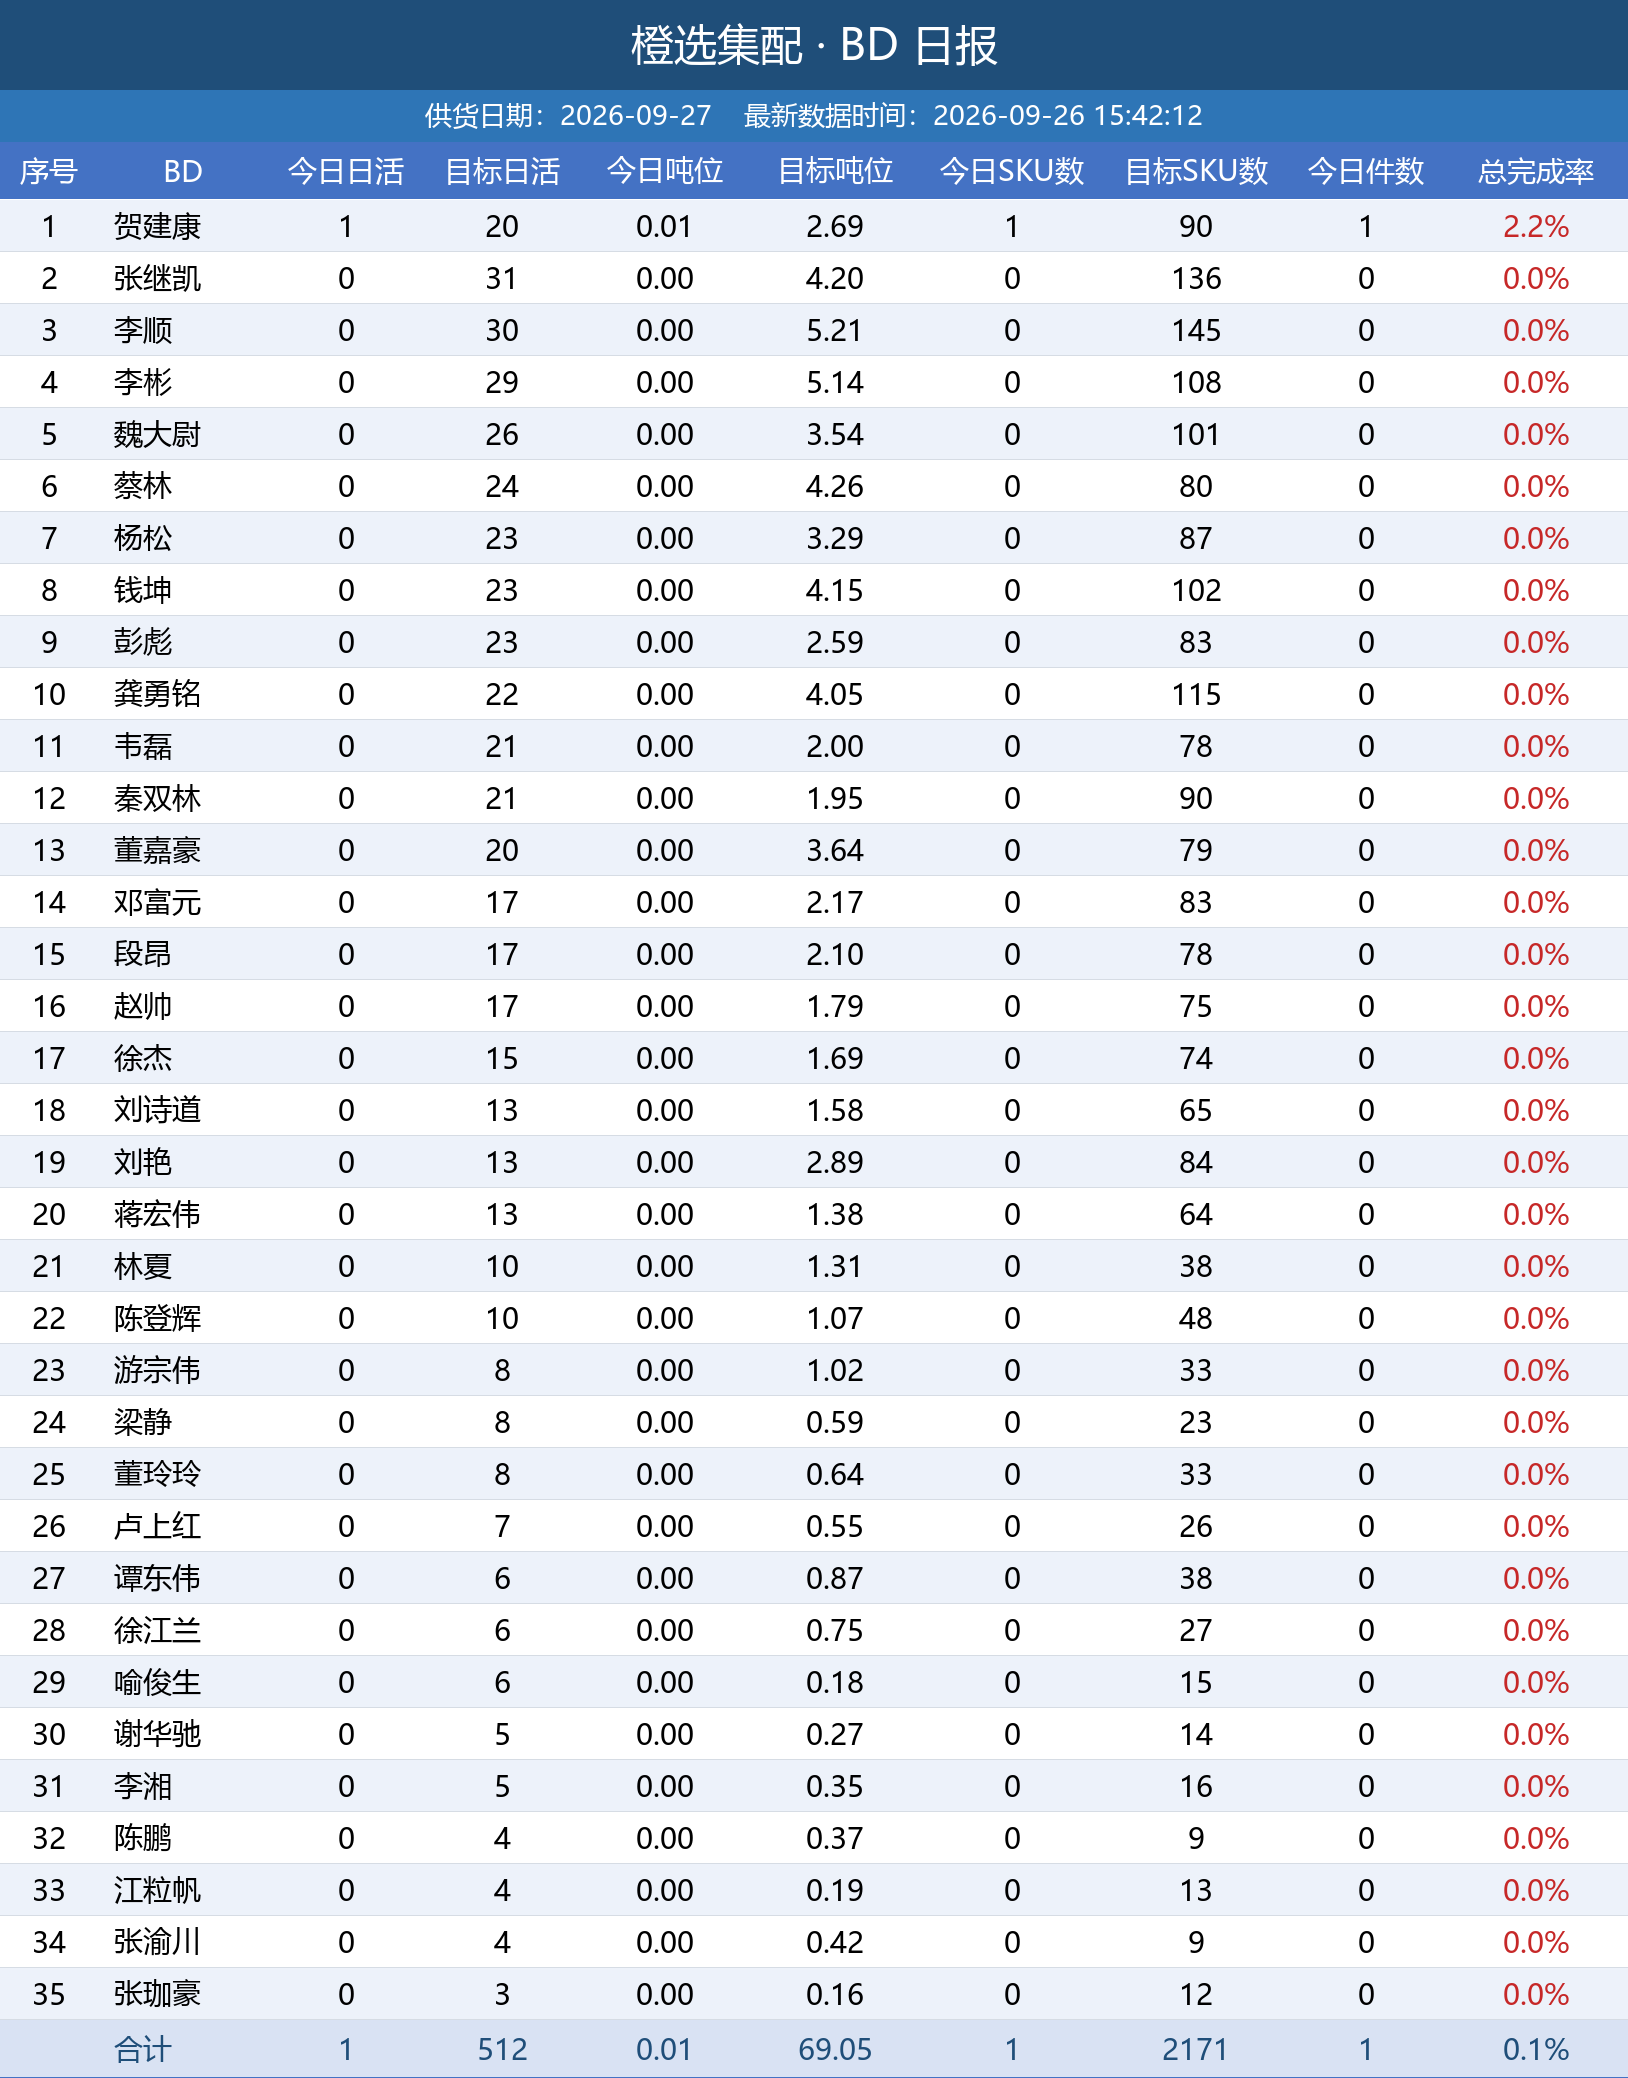
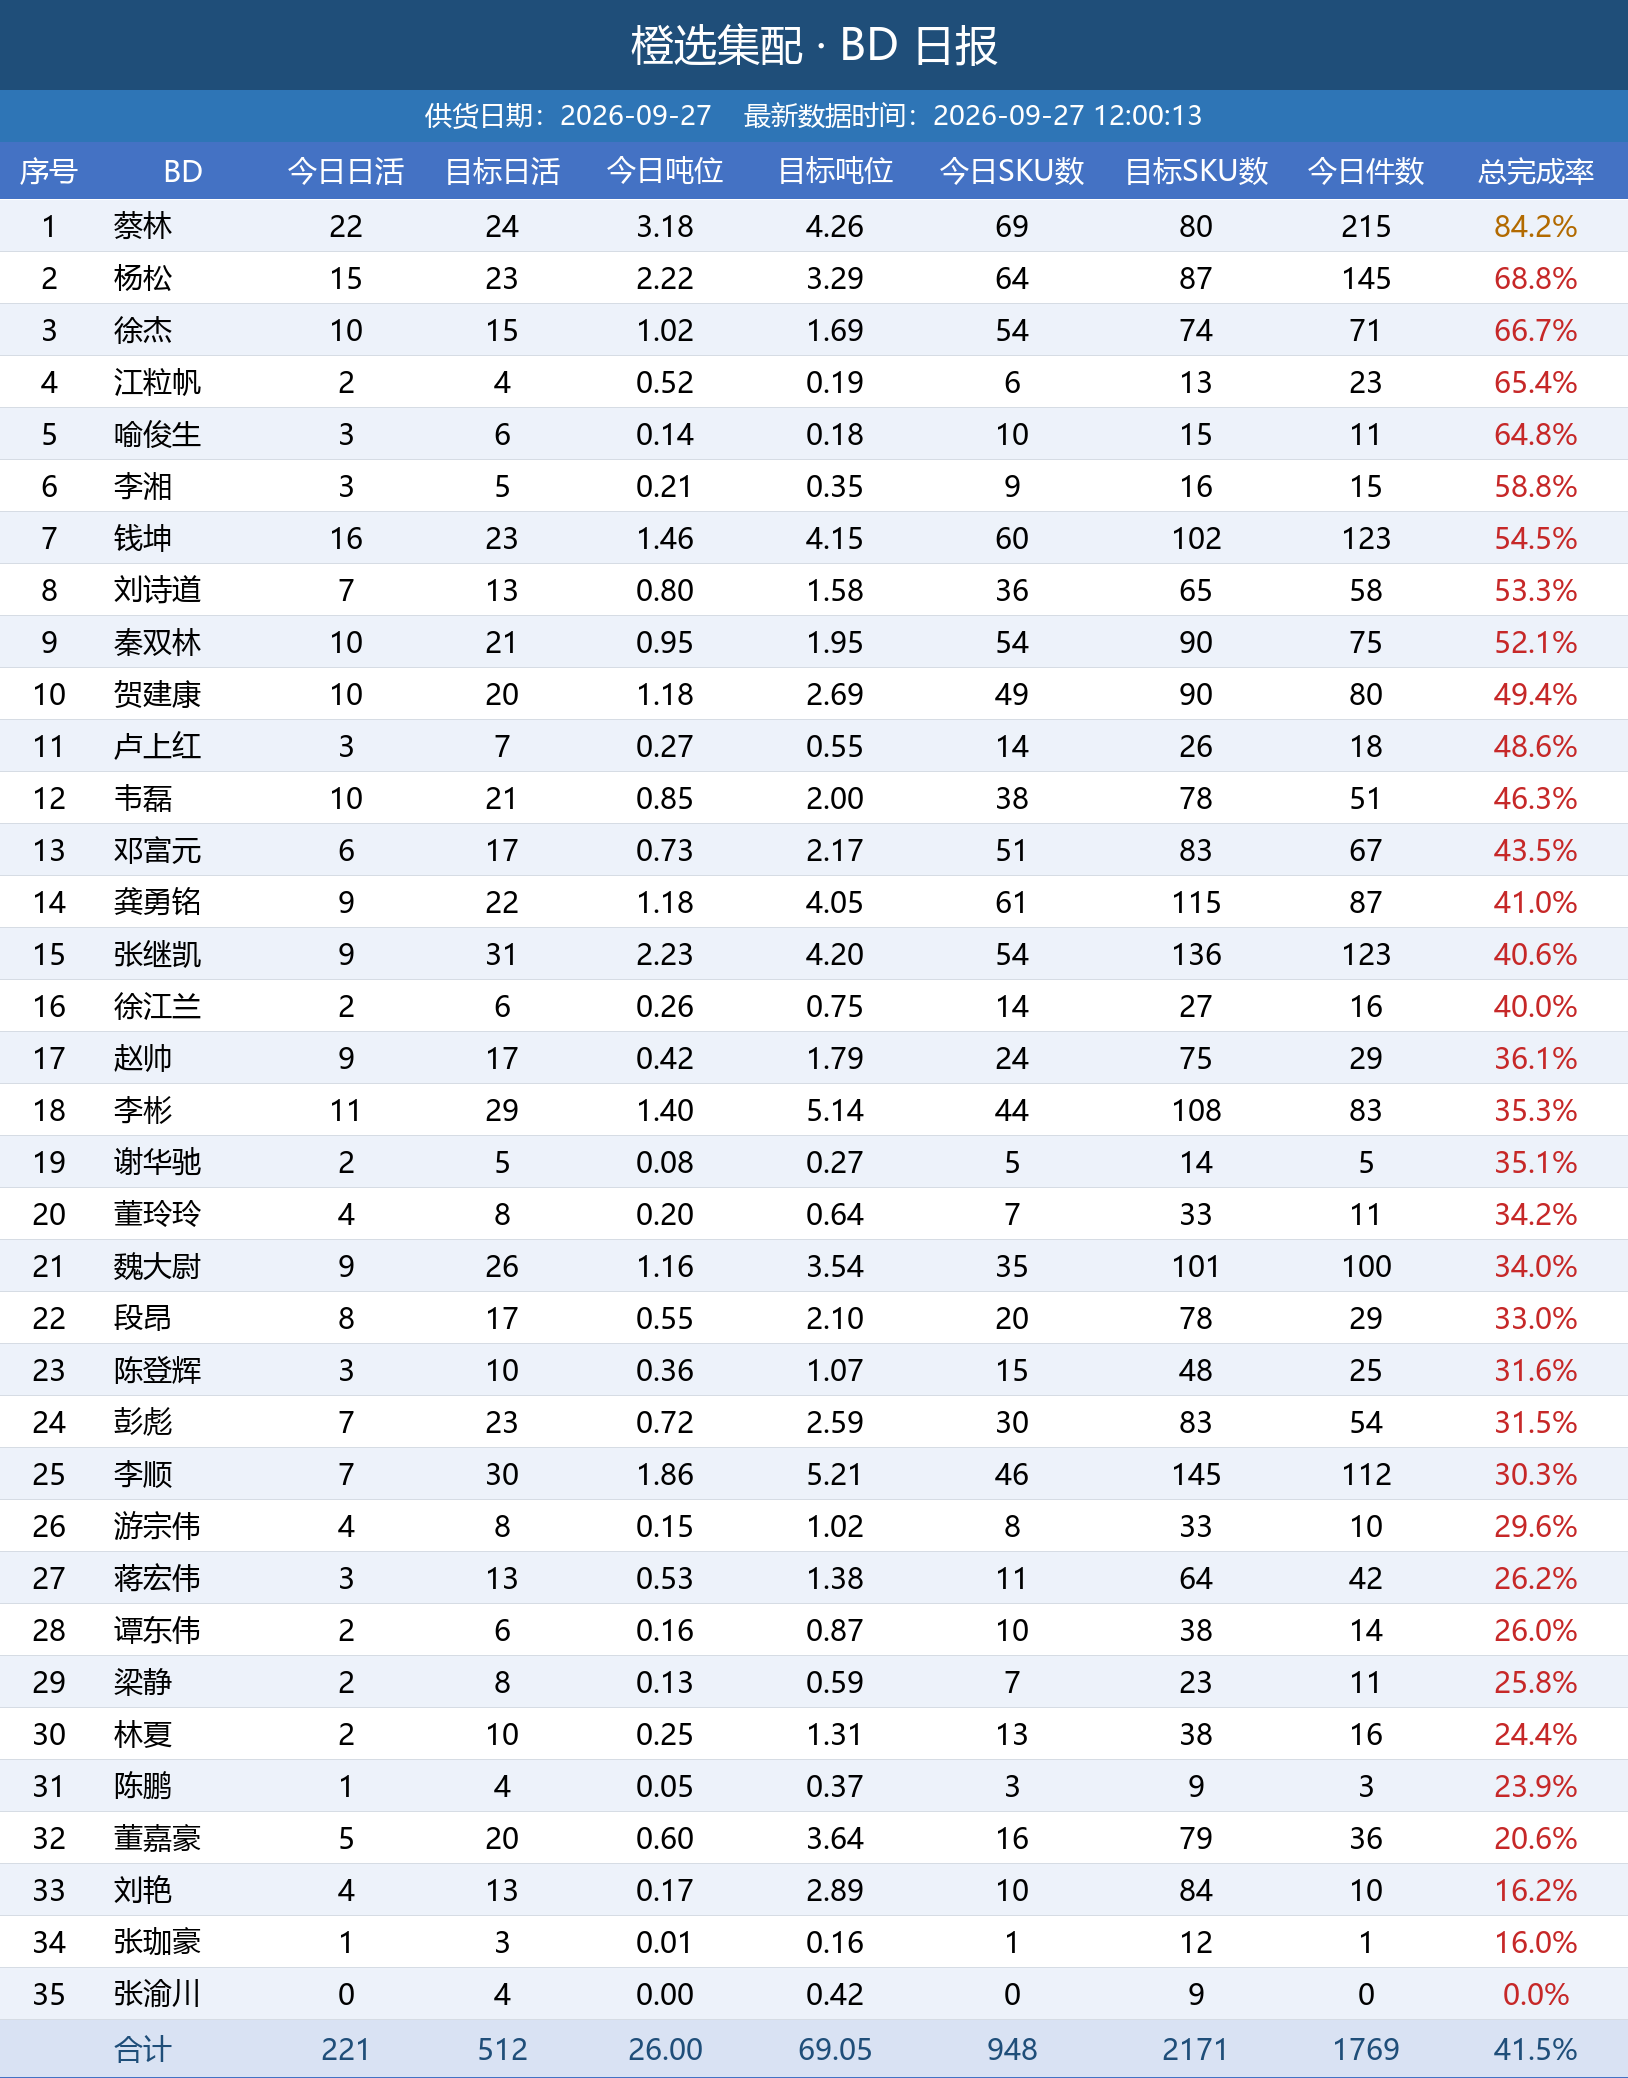
自动更新日报图片

diff --git a/daily_report/index.html b/daily_report/index.html
@@ -11,7 +11,7 @@ img { max-width: 100%; border: 1px solid #e5e5e5; margin-bottom: 24px; display: 
 </style>
 </head>
 <body>
-<h1>橙选集配日报图片（20260926_154307）</h1>
+<h1>橙选集配日报图片（20260927_120354）</h1>
 <img src="bd_latest.png" alt="BD 日报">
 <img src="wh_latest.png" alt="城市仓日报">
 <img src="zs_latest.png" alt="招商日报">
